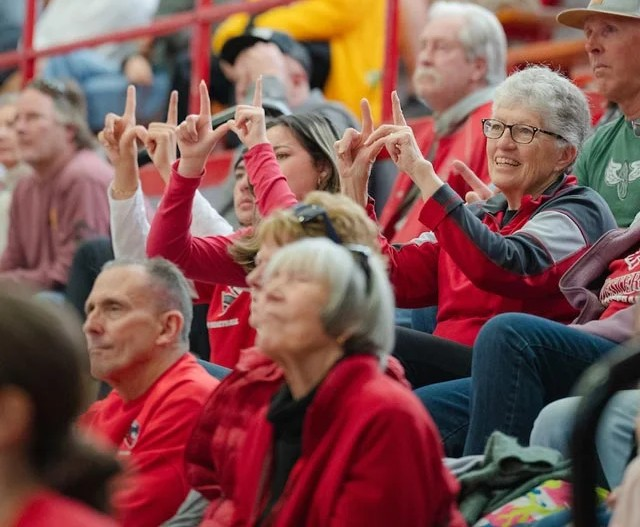
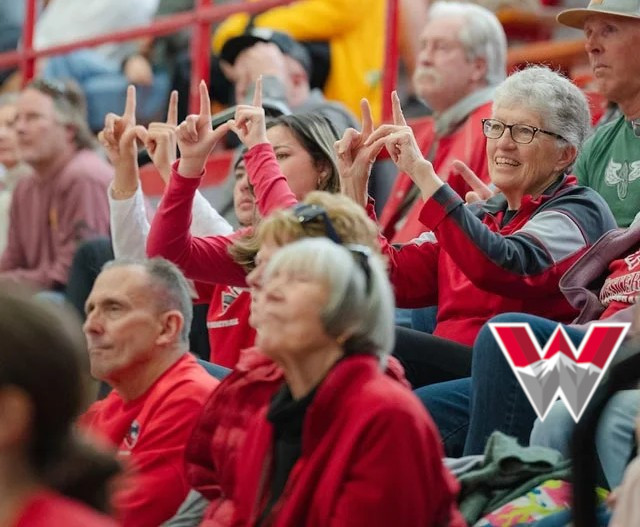
Updated download, grant info, & pictures

Changed region(s): [[0.75, 0.6072, 1.0, 0.8197]]

diff --git a/script.js b/script.js
@@ -190,39 +190,40 @@ function updateGrantSlides(index) {
   }
 }
 
+
 // Grant Info Download //
-document.addEventListener("DOMContentLoaded", () => {
-    const downloadBtn = document.getElementById("downloadBtn");
-    let isCooldown = false;   // prevents spamming
+function downloadPDF(button) {
+  if (button.dataset.cooldown === "true") return;
 
-    downloadBtn.addEventListener("click", () => {
-        if (isCooldown) return;  // block multiple clicks
+  const type = button.dataset.download;
 
-        isCooldown = true;
-        downloadBtn.disabled = true;            // disable button
-        downloadBtn.textContent = "Preparing...";
+  const files = {
+    guidelines: "grantFiles/Grant Guidelines.pdf",
+    application: "grantFiles/Grant Application Form.pdf"
+  };
 
-        const files = [
-            "grantFiles/Grant Guidelines.pdf",
-            "grantFiles/Grant Request Form.pdf"
-        ];
+  const path = files[type];
+  if (!path) return;
 
-        files.forEach((file, i) => {
-            setTimeout(() => {
-                const a = document.createElement("a");
-                a.href = file;
-                a.download = file.split("/").pop();
-                document.body.appendChild(a);
-                a.click();
-                a.remove();
-            }, i * 300);
-        });
+  // start cooldown
+  button.dataset.cooldown = "true";
+  button.disabled = true;
+  const originalText = button.textContent;
+  button.textContent = "Preparing...";
 
-        // Re-enable download button after 3 seconds
-        setTimeout(() => {
-            downloadBtn.disabled = false;
-            downloadBtn.textContent = "Download";
-            isCooldown = false;
-        }, 3000);
-    });
-});
+  setTimeout(() => {
+    const a = document.createElement("a");
+    a.href = path;
+    a.download = path.split("/").pop();
+    document.body.appendChild(a);
+    a.click();
+    a.remove();
+  }, 300);
+
+  // re-enable after cooldown
+  setTimeout(() => {
+    button.disabled = false;
+    button.textContent = originalText;
+    delete button.dataset.cooldown;
+  }, 3000);
+}

diff --git a/grants.html b/grants.html
@@ -67,12 +67,15 @@
     <div class="downloadGrantInfo">
         <h1>Download Grant Info As PDF</h1>
         <ul>
-          <li>Grant Guidelines</li>
-          <li>Grant Application Form</li>
+          <li>Grant Guidelines<br>        
+          <button class="standardButton downloadBtn" data-download="guidelines" onclick="downloadPDF(this)">Download Grant Guidelines PDF</button></li>
+
+          <li>Grant Application Form<br>
+            <button class="standardButton downloadBtn" data-download='application'  onclick="downloadPDF(this)">Download Grant Application PDF</button></li>
         </ul>
-        <button class="standardButton" id="downloadBtn">Download PDF</button>
+  
     </div>
-    </div>
+  </div>
 
   <div class="approvedGrantsDonations">
     <h1>Total Donations & Grants 2021-2025</h1>

diff --git a/resources.html b/resources.html
@@ -101,7 +101,7 @@
               Gunnison is a small mountain community on the western slope of Colorado with a population of approximately 6,560 full-time residents. The City of Gunnison is the county seat for Gunnison County. Gunnison has a rich history of ranching, agriculture, mining, tourism and outdoor recreation opportunities that bring many more people through the community.            </b>
           </div>
           <div class="resourcesButton">
-            <a class="standardButton" href="https://www.gunnisonvalleyhealth.org/about/" target="_blank" rel="noopener noreferrer">Learn More</a>
+            <a class="standardButton" href="https://www.gunnisonco.gov/" target="_blank" rel="noopener noreferrer">Learn More</a>
           </div>
         </div>
       </div>
